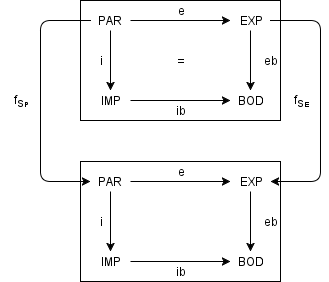
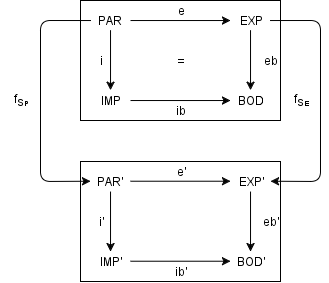
Typo fixes and enhancements for S00-2

diff --git a/s00/2.md b/s00/2.md
@@ -16,13 +16,15 @@ Tartalom
 
 ### Típus fogalma általában
 
-Mi a típus? Biteken tárolt információk jelentése, illetve hogyan kell értelmezni és módosítani
+Mi a típus? Biteken tárolt információk jelentése, illetve hogy hogyan kell értelmezni és módosítani őket
 
 ### Típus fogalma formálisan
 
+Egy
+
 $$(A, F)$$
 
-ahol
+páros, ahol
 
 * *A*: adattípust felépítő objektumok halmaza
 * *F*: objektumokon értelmezett műveletek halmaza
@@ -33,7 +35,7 @@ ahol
 
 ADT specifikációja
 
-* Szolgáltatások leírása,a specifikáció nem írja elő a megvalósítás módját
+* Szolgáltatások leírása, a specifikáció nem írja elő a megvalósítás módját
 
 ADT megvalósítása
 
@@ -42,7 +44,7 @@ ADT megvalósítása
 ADT korai és modernebb megközelítése
 
 * Korai megközelítésben: azonos **STRUKTÚRÁJÚ** adatok (C struct-ok)
-* Modern megközelítésben: azonos **SZOLGÁLTATÁST** nyújtó adatok (C++/Java/C#)
+* Modern megközelítésben: azonos **SZOLGÁLTATÁST** nyújtó adatok (C++/Java/C# osztályok)
 
 ### Szignatúra
 
@@ -51,7 +53,7 @@ ADT korai és modernebb megközelítése
 * $\sum$ szignatúra egy $\sum = (S, OP)$
     + $S = \{ S_0, S_1, ... , S_n \}$: szortok neveinek halmaza (fajták, alaptípusok)
     + $OP = \{ f_0, f_1, ... , f_m \}$: művelet neveinek halmaza
-* A $f_i$ művelet: egy $f_i: s_{i_1} \times s_{i_2} \times \cdots s_{i_k} \rightarrow s_{i_0}$ parciális leképezés
+* Az $f_i$ művelet: egy $f_i: s_{i_1} \times s_{i_2} \times \cdots s_{i_k} \rightarrow s_{i_0}$ parciális leképezés
     + ($művelet: argumentum\ szortok \rightarrow target\ szortok$)
 * Argumentum szortok (miből): $s_{i_1} \times s_{i_2} \times \cdots s_{i_k}, \qquad k \geq 0$
 * Target szort (mibe): $s_{i_0}$
@@ -64,7 +66,7 @@ Lényeg: a műveletek szortokból szortokba képeznek le
 * Programozási nyelvekben ez a definíciónak (implementációnak) felelne meg
 * Az ADT lehetséges implementációját modellezi le
 * $\sum = (S, OP)$ szignatúrához tartozó algebra: $\sum_A = (S_A, OP_A)$
-    + $S_A = \{ A_{s_0}, A_{s_1}, \cdots A_{s_n} \}$: szortok, amikhez jelentés is tartoznak (*hordozó halmaz*)
+    + $S_A = \{ A_{s_0}, A_{s_1}, \cdots A_{s_n} \}$: szortok, amikhez jelentések is tartoznak (*hordozó halmaz*)
     + $OP_A = \{ f_0, f_1, ... , f_m \}$: műveletek, amikhez jelentések is tartoznak (*függvények*)
     + A $f_i$ művelet: egy $f_i: A_{s_{i_1}} \times A_{s_{i_2}} \times
       \cdots A_{s_{i_k}} \rightarrow A_{s_{i_0}}$ parciális leképezés
@@ -99,7 +101,7 @@ Specifikáció: $SPEC = (\sum, E)$ (alternatív jelölés: $SPEC = (S, OP, E)$)
 **2. Procedurális specifikáció**
 
 * Műveletek kiszámítási szabályainak halmaza
-* Függvény jelentésének, kiszámátási szabályának pszeudokód-szerű definiálása
+* Függvény jelentésének, kiszámítási szabályának pszeudokód-szerű definiálása
 
 **3. Axiomatikus specifikáció (algebrai specifikáció)**
 
@@ -119,7 +121,7 @@ $h: A \rightarrow B$ egy függvénycsalád
 
 1. Minden *S*-beli *s* szortra $h_s: A_s \rightarrow B_s$
     + azaz *A* szortját $\rightarrow$ *B* megfelelő szortjára képezi le
-2. $\forall f_{A_i} + \forall (A_{s_{i_1}}, A_{s_{i_2}}, ..., A_{s_{i_k}})$ esetén:
+2. $\forall f_{A_i}$ és $\forall (A_{s_{i_1}}, A_{s_{i_2}}, ..., A_{s_{i_k}})$ esetén:
    $f_{B_i} megfelel f_{A_i}$-nek
     + úgy, hogy $h_{s_{i_0}}(f_{A_i}(A_{s_{i_1}}, A_{s_{i_2}}, ..., A_{s_{i_k}}))
       = f_{B_i}(h_{s_{i_1}}(A_{s_{i_1}}), ..., (h_{s_{i_k}}(A_{s_{i_k}}))$
@@ -139,9 +141,9 @@ $h: A \rightarrow B$ egy függvénycsalád
 ### Szignatúra algebra izomorfizmus
 
 * 1-1 leképezés *A* és *B* között
-* Jelölés: $A \simeq B$
+* Jelölés: $A \simeq B$ (*A* izomorf *B*-vel)
     + (*szürjektív: minden B-beli elemhez kapcsolódik valaki*)
-    + (*injektív: minden A-beli elem különböző B-beli elemhez kapcsolódnak*)
+    + (*injektív: minden A-beli elem különböző B-beli elemhez kapcsolódik*)
     + (*bijektív: egyszerre szürjektív és injektív*)
 * Ha egy homomorfizmus bijektív $\Longrightarrow$ akkor **izomorfizmusról** beszélünk
 * Az izomorf algebrák azonosak egymással (átnevezést leszámítva)
@@ -160,7 +162,7 @@ ahol
 
 ### Monomorfikus és polimorfikus absztrakt típus
 
-* **Monomrfikus**
+* **Monomorfikus**
     + Egyetlen adattípus tudja megvalósítani
     + Minden eleme izomorf
     + **Csak egy ekvivalencia osztály** van benne
@@ -171,10 +173,10 @@ ahol
 
 ### Specifikáció homomorfizmus
 
-Szignatúra algebra homomorfizmus kiterjesztés az $SPEC = (\sum, E)$ specifikációban lévő műveleti 
+Szignatúra algebra homomorfizmus kiterjesztése a $SPEC = (\sum, E)$ specifikációban lévő műveleti
 szemantikát leíró $E$ specifikációban lévő
 
-* változókra 
+* változókra
 * és kifejezésekre
 
 Specifikáció változói és kifejezései leképezhetők $\rightarrow$ másik specifikáció változóira és
@@ -266,7 +268,16 @@ $$A = \{A_0, ..., A_n\}; \qquad C = \{C_0, ..., C_m\};$$
 $$F = \{f_0 \rightarrow A_0, ..., f_i: A_j ... A_k \rightarrow A_l, ...\}; \qquad
 G = \{g_0: \rightarrow C_0, ..., g_i: C_j ... C_k \rightarrow C_l, ...\};$$
 
-Absztrakt és konkrét objektumok az egymáshoz való viszonya:
+ahol
+
+* $d_a$: adattípus absztrakt specifikációja
+* $d_c$: adattípus konkrét specifikációja
+* *A*: absztrakt szortnevek
+* *C*: konkrét szortnevek
+* *F*: absztrakt műveletek
+* *G*: konkrét műveletek
+
+Absztrakt és konkrét objektumok egymáshoz való viszonya:
 
 $$\varphi: C \rightarrow A$$
 $$\varphi = (\varphi_0, ..., \varphi_n)$$ ahol
@@ -278,8 +289,6 @@ A *C* objektumhalmazt az *A* objektumhalmaz egy reprezentánsának nevezzük az 
 * azaz $a = \varphi(c)$.
 
 Ennek jelentősége kettős specifikációnál: *eb* megmondja hogyan reprezentáljuk *IMP*-el $PAR + EXP$-et
-
-\newpage
 
 ## 6. Típusöröklés <a name="chapter06"></a>
 
@@ -293,6 +302,8 @@ Típusöröklődés definíciója:
 * Adva $C = (PAR, EXP, IMP, BOD, e, i, eb, ib)$ osztályspecifikáció
 * Adva $C' = (PAR', EXP', IMP', BOD', e', i', eb', ib')$ osztályspecifikáció
 
+\newpage
+
 Adva $f_s = (f_{S_P}, f_{S_E})$ morfizmus:
 
 ![Öröklődés morfizmus diagramja](img/oroklodes.png)
@@ -304,6 +315,8 @@ Adva $f_s = (f_{S_P}, f_{S_E})$ morfizmus:
 
 Morfizmus során az operációk szintaktikai formája megőrződik
 
+\newpage
+
 ## 7. Liskov féle szubsztitúciós elv <a name="chapter07"></a>
 
 Más néven: szemantikai öröklődési követelmény
@@ -311,7 +324,7 @@ Más néven: szemantikai öröklődési követelmény
 ![Szemantikai örkölődés $T_1$-ből $T_2$-be](img/liskov.png)
 
 Ha a $T_1$ típusnak minden $o_1$ objektumához létezik a $T_2$ típusnak egy olyan $o_2$ objektuma,
-amelyre igaz a következő: 
+amelyre igaz a következő:
 
 * minden olyan *P* programban amely $T_1$ típusú termként van definiálva,
 * a *P* program viselkedése nem változik meg, valahányszor az $o_1$ objektumot $o_2$ objektumra cseréljük ki,
